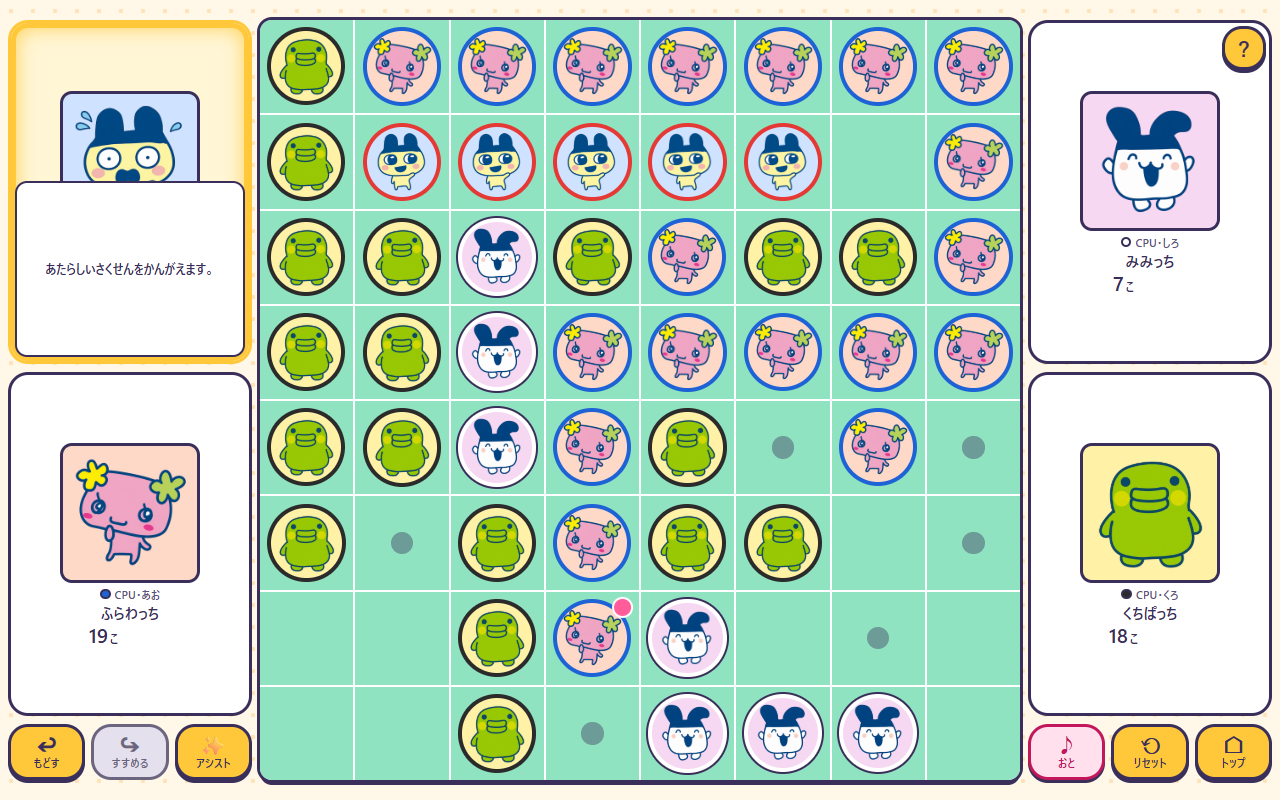
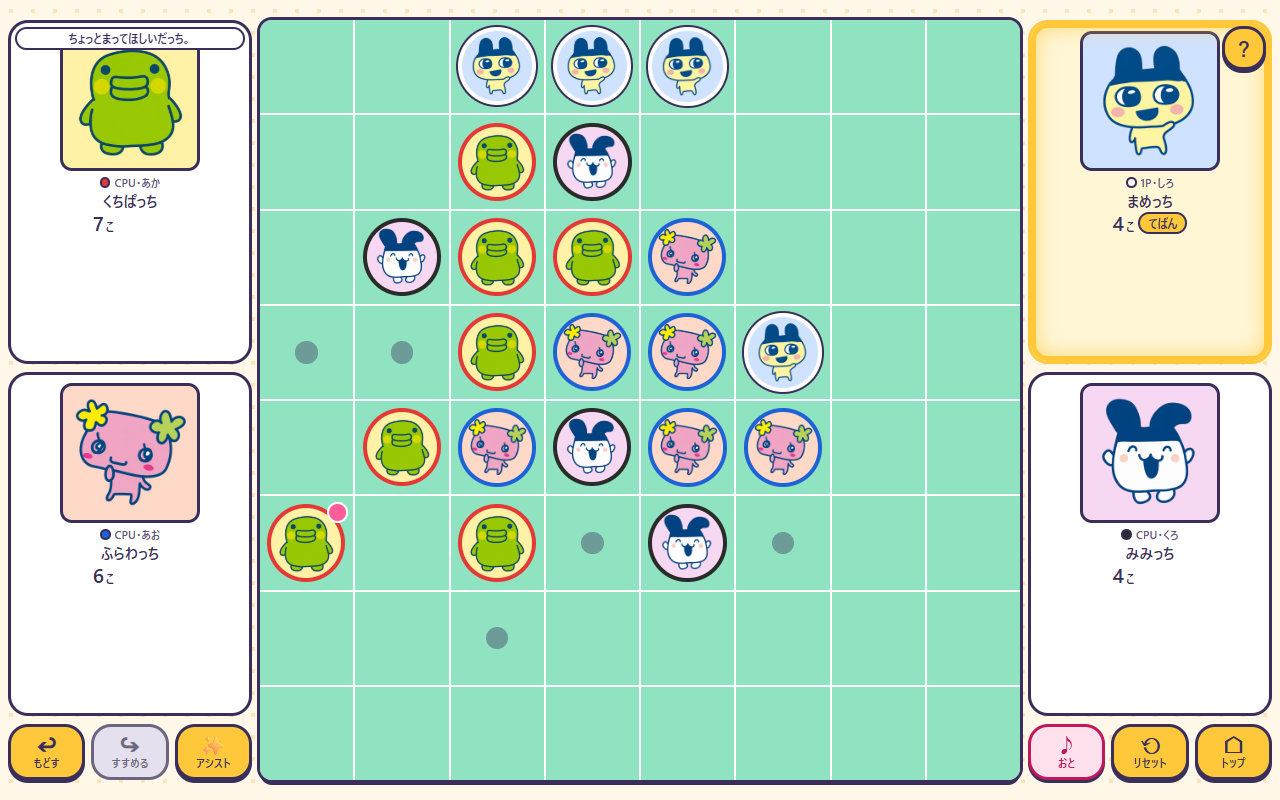
fix: 4人対戦のパネルで考え中と吹き出しが情報を隠さないようにする

diff --git a/css/game.css b/css/game.css
@@ -286,22 +286,31 @@
 .game.four .pos-br { grid-area: br; }
 .game.four .pos-bl { grid-area: bl; }
 .game.four .char-panel { gap: 6px; padding: 4px 6px; }
-.game.four .panel-info { flex: 1; min-width: 0; gap: 1px; }
+/* Rows sit at the bottom so the count / てばん row stays below the line bubble area. */
+.game.four .panel-info { flex: 1; min-width: 0; gap: 1px; align-self: stretch; justify-content: flex-end; }
 .game.four .panel-tag { display: flex; align-items: center; gap: 4px; font-size: 0.7rem; white-space: nowrap; }
 .game.four .panel-name { max-width: 100%; font-size: 0.95rem; overflow: hidden; text-overflow: ellipsis; }
 .game.four .panel-row { display: flex; align-items: center; gap: 4px; }
 .game.four .panel-count { font-size: 1.25rem; }
 .game.four .turn-mark { font-size: 0.75rem; padding: 1px 8px; }
-/* The speech bubble lies over the info column (no spare width in a half panel); its tail points at the avatar. */
-.game.four .bubble-slot {
-  position: absolute;
-  top: 4px;
-  bottom: 4px;
-  left: calc(6px + var(--avatar-size));
+/* Half panels have no spare width, so the bubbles are laid over the panel (the slot itself takes no space):
+   a line bubble is sized to its text over the tag / name rows only (count and てばん stay visible), and
+   the thinking dots are a small chip on the avatar's lower-left corner (all info stays visible). */
+.game.four .bubble-slot { display: contents; }
+.game.four .bubble { z-index: 2; pointer-events: none; }
+.game.four .bubble-line {
+  inset: auto;
+  top: 3px;
+  left: calc(6px + var(--avatar-size) + 4px);
   right: 4px;
-  z-index: 2;
-  pointer-events: none;
+  max-height: calc(100% - 36px);
+  margin: 0;
+  font-size: 0.75rem;
 }
+.game.four .bubble-think { inset: auto; left: 3px; bottom: 3px; margin: 0; padding: 3px 5px; border-radius: var(--radius-round); }
+.game.four .bubble-think::before { display: none; }
+.game.four .bubble-dots { gap: 3px; }
+.game.four .bubble-dots span { width: 6px; height: 6px; }
 .game.four .controls { grid-template-columns: repeat(7, minmax(0, 1fr)); }
 .game.four .help-btn {
   position: static;
@@ -375,13 +384,13 @@
     grid-template-rows: repeat(2, calc((var(--board-size) - var(--controls-h) - 2 * var(--gap)) / 2)) var(--controls-h);
     grid-template-areas: "tl board tr" "bl board br" "c1 board c2";
   }
-  /* Top-aligned so the bubble slot below can be placed from the avatar size. */
+  /* Top-aligned so the line bubble can be limited to the avatar band (the info rows below stay visible). */
   .game.four .char-panel { justify-content: flex-start; gap: 4px; padding: 8px; }
   .game.four .panel-info { flex: none; max-width: 100%; align-items: center; }
-  /* Under the avatar, at most 4.2em tall so a tall desktop panel keeps the count visible. */
-  .game.four .bubble-slot { top: calc(8px + var(--avatar-size) + 4px); bottom: auto; height: 4.2em; left: 4px; right: 4px; min-height: 0; }
-  .game.four .bubble { margin-left: 0; margin-top: 6px; }
-  .game.four .bubble::before { left: 50%; top: -2px; transform: translate(-50%, -50%) rotate(135deg); }
+  .game.four .bubble-line { top: 4px; left: 4px; right: 4px; max-height: calc(var(--avatar-size) + 8px); }
+  .game.four .bubble-line::before { display: none; }
+  .game.four .pos-tr .bubble-line { right: calc(var(--help-reserve) + 8px); } /* clear of the help button */
+  .game.four .bubble-think { left: 4px; top: 4px; bottom: auto; }
   /* .controls is display: contents here, so the help button is a grid item laid over the top-right panel. */
   .game.four .help-btn {
     grid-area: tr;
